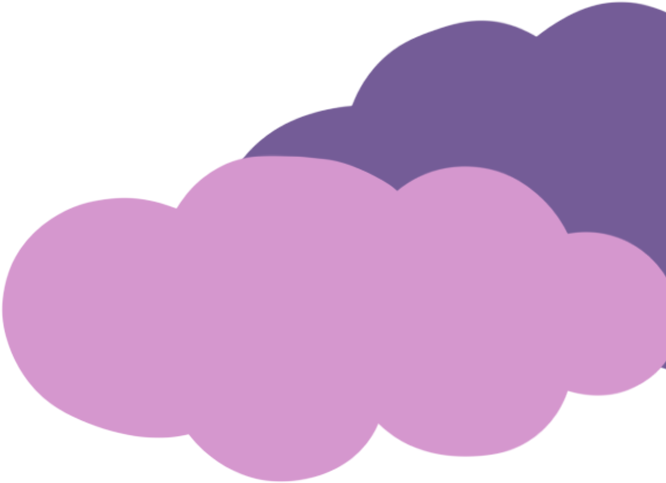
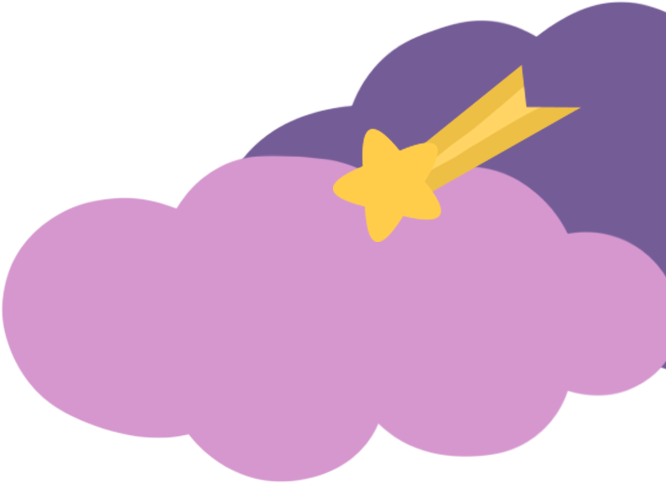
별똥별 아이콘 수정

Changed region(s): [[0.4805, 0.1242, 0.8709, 0.4969]]

diff --git a/css/forum.css b/css/forum.css
@@ -38,11 +38,12 @@ hr.line{
 }
 
 #cloud1{
+    position: relative;
     margin-bottom: clamp(200px, 230px, 50%);
     width:25%;
     opacity: 70%;
+    z-index: 1;
 }
-
 #sub{
     font-size: clamp(1.1em, 1.3vw, 5vw);
     color: #606060;
